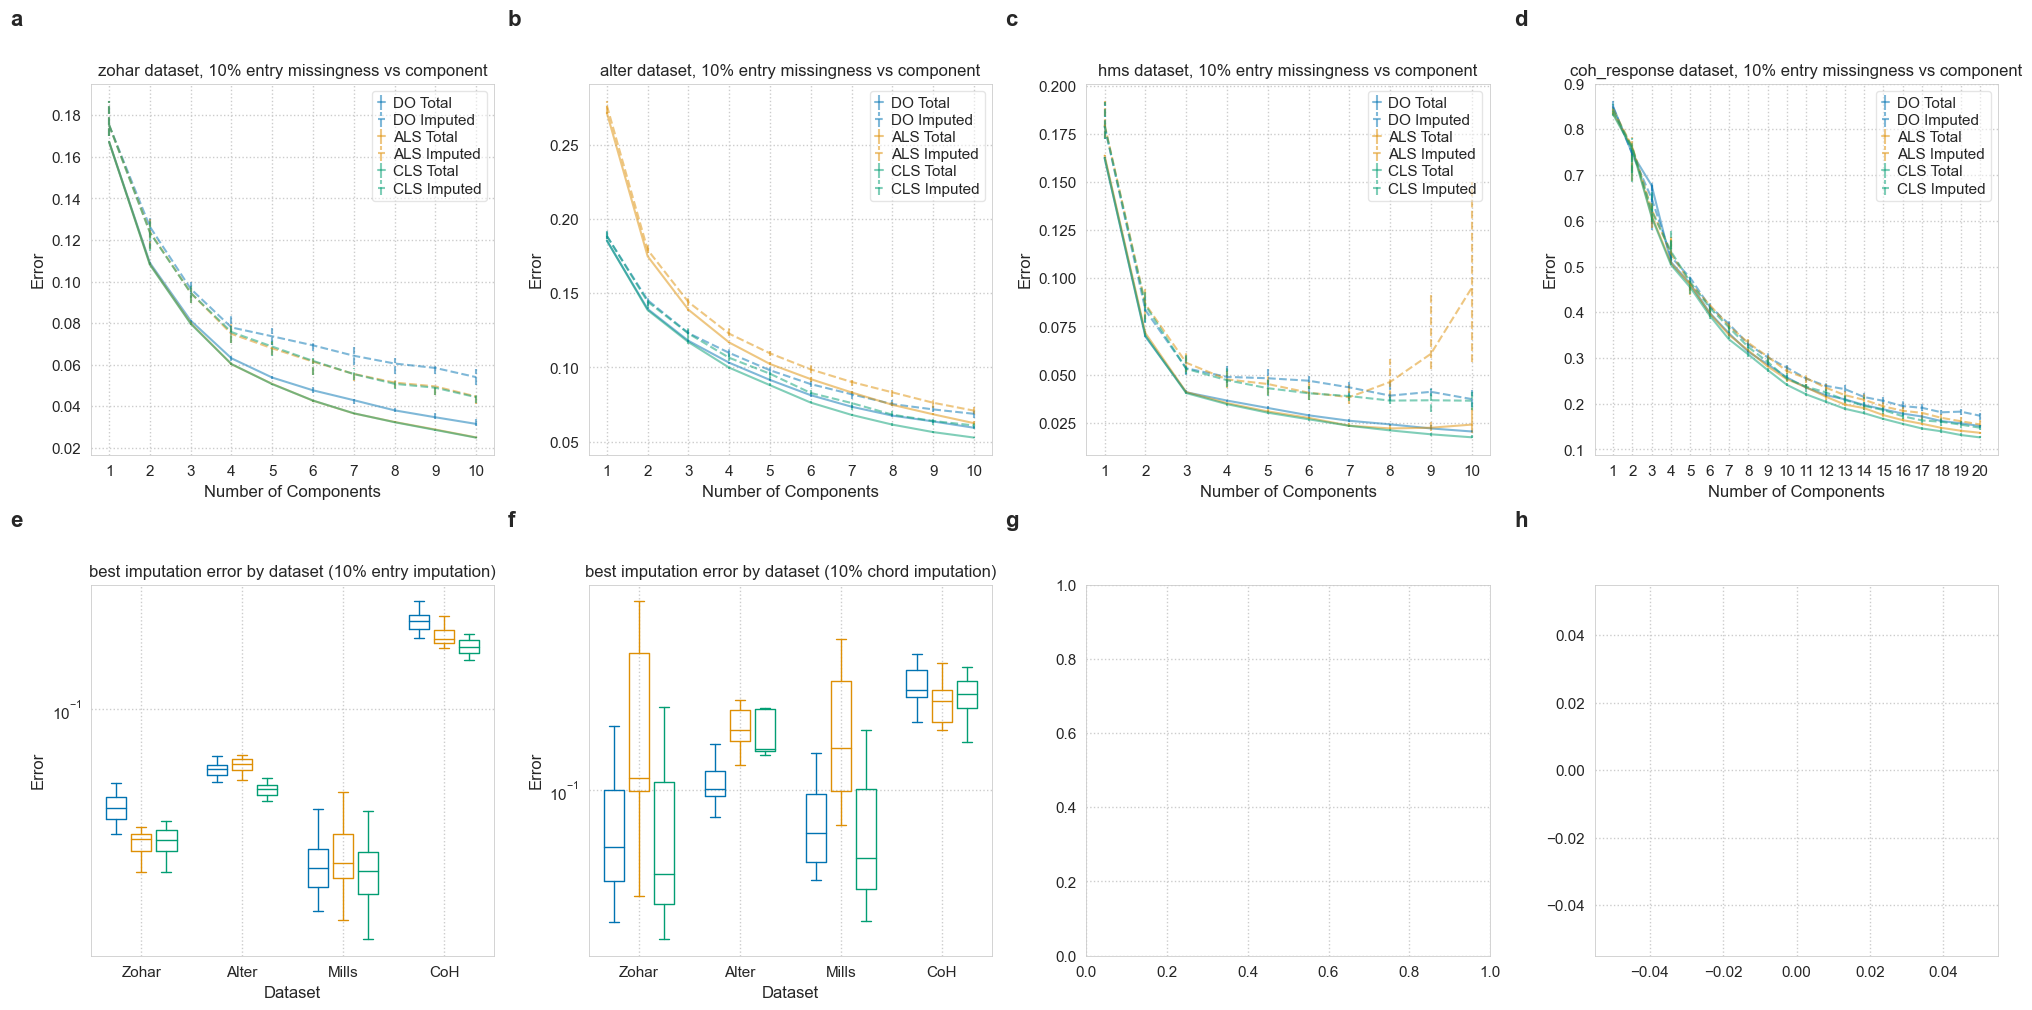
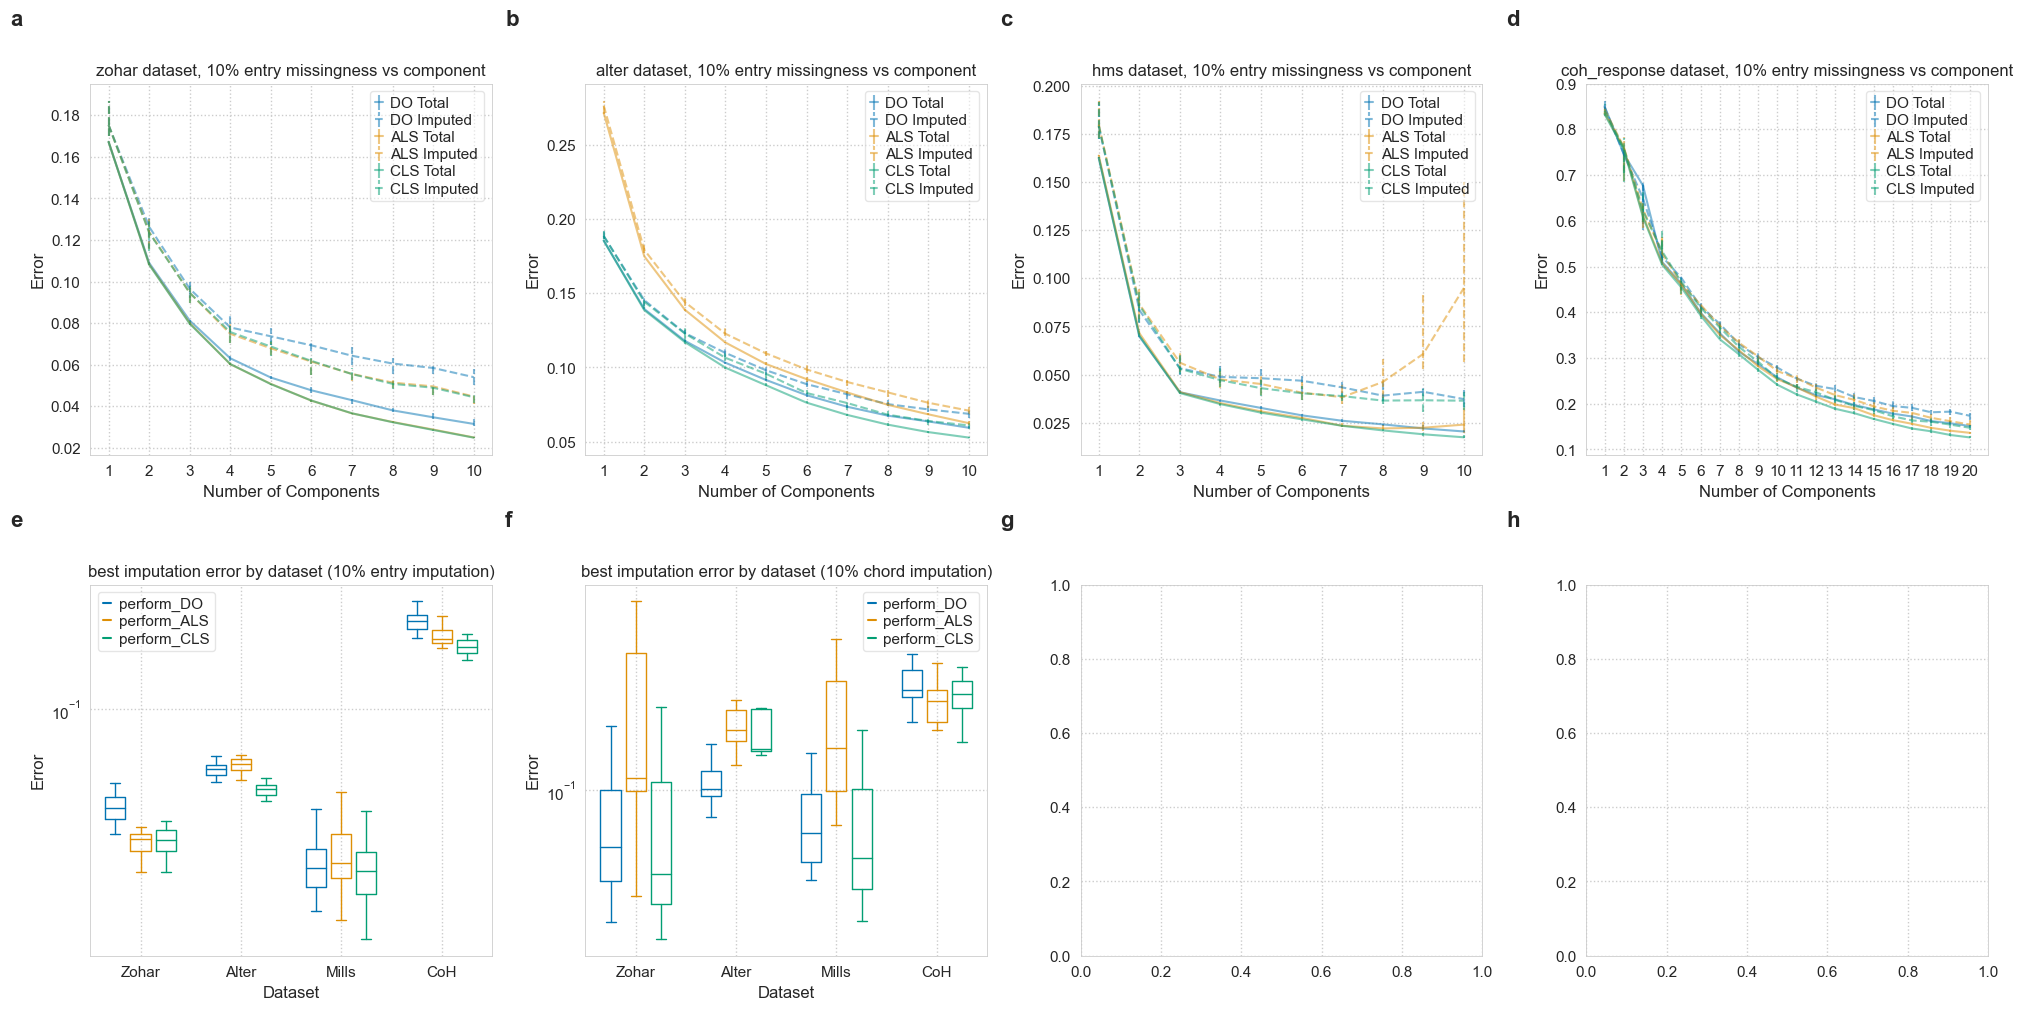
fig3 legend

diff --git a/timpute/figures/figure3.py b/timpute/figures/figure3.py
@@ -2,8 +2,9 @@ import numpy as np
 from .runImputation import *
 from ..plot import *
 from ..common import *
+from matplotlib.lines import Line2D
 
-# poetry run python -m timpute.figures.figure2
+# poetry run python -m timpute.figures.figure3
 
 methods = (perform_DO, perform_ALS, perform_CLS)
 methodname = ["DO","ALS","CLS"]
@@ -77,8 +78,7 @@ def figure3(datalist=["zohar", "alter", "hms", "coh_response"]):
     ax[4].set_ylabel("Error")
     ax[4].set_xlim(right=7)
     ax[4].set_yscale('log')
-    for i,m in enumerate(methods):
-        plt.plot([], c=rgbs(i), label=m.__name__)
+    ax[4].legend(handles=[Line2D([0], [0], label=m.__name__, color=rgbs(i)) for i,m in enumerate(methods)])
 
 
 
@@ -110,8 +110,7 @@ def figure3(datalist=["zohar", "alter", "hms", "coh_response"]):
     ax[5].set_ylabel("Error")
     ax[5].set_xlim(right=7)
     ax[5].set_yscale('log')
-    for i,m in enumerate(methods):
-        plt.plot([], c=rgbs(i), label=m.__name__)
+    ax[5].legend(handles=[Line2D([0], [0], label=m.__name__, color=rgbs(i)) for i,m in enumerate(methods)])
     
     stdout.write("\n\n* values are indices, add 1 for component")
 
